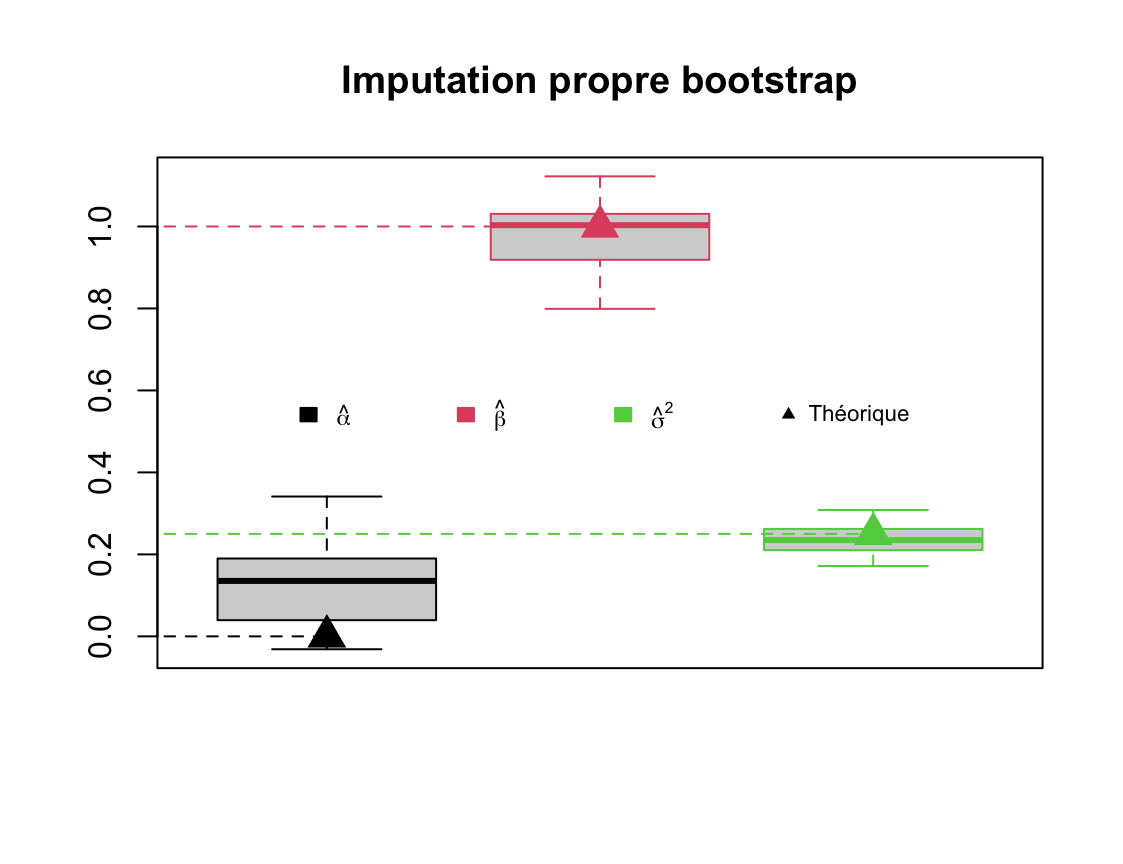
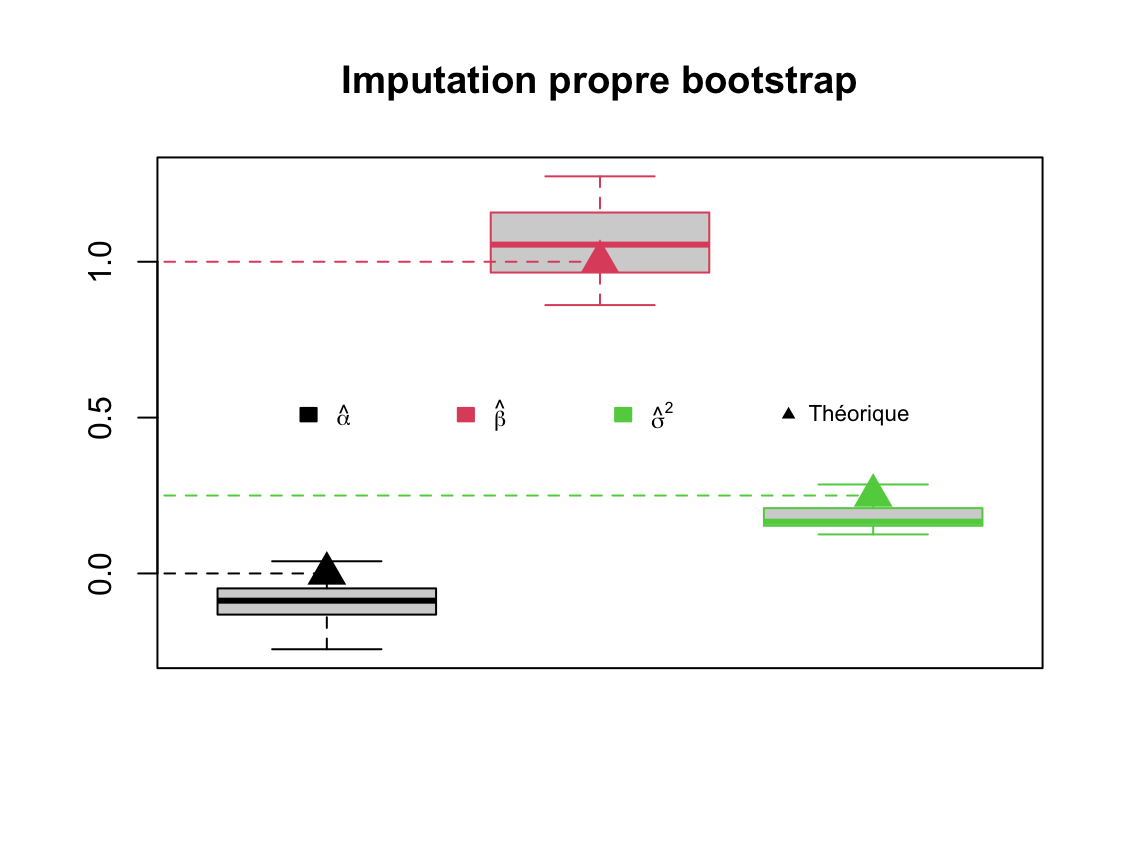
oo

diff --git a/static/uploads/M2_DS/M2_stats_de_la_SD_2024.html b/static/uploads/M2_DS/M2_stats_de_la_SD_2024.html
@@ -877,9 +877,9 @@ y = x + \epsilon
 <p>On répète un nombre <span class="math inline">\(M=\)</span> 20 d’imputations du jeu de données intitiales. En voici 3 versions.</p>
 
 <img data-src="M2_stats_de_la_SD_2024_files/figure-revealjs/unnamed-chunk-20-1.png" class="quarto-figure quarto-figure-center r-stretch" width="518"><p>La moyenne empirique des <span class="math inline">\(M=\)</span> 20 estimations pour chacun des 3 coefficients: <span class="math display">\[
-\hat{\alpha}_N\approx 0.07\pm 0.053, \
-\hat{\beta}_N\approx 0.978\pm 0.052,\
-\hat{\sigma}^2_N\approx 0.214
+\hat{\alpha}_N\approx -0.102\pm 0.045, \
+\hat{\beta}_N\approx 1.006\pm 0.055,\
+\hat{\sigma}^2_N\approx 0.158
 \]</span></p>
 </section>
 <section id="le-boxplot-toujours-aussi-utile" class="slide level2">
@@ -944,27 +944,27 @@ y = x + \epsilon
 <p>On obtient des estimations :</p>
 <ul>
 <li><p>Via bootstrap : <span class="math display">\[
-\hat{\alpha}_\text{Boot}\approx 0.121\pm 0.055, \
-\hat{\beta}_\text{Boot}\approx 0.978\pm 0.056, \
-\hat{\sigma}^2_\text{Boot}\approx 0.24
+\hat{\alpha}_\text{Boot}\approx -0.094\pm 0.048, \
+\hat{\beta}_\text{Boot}\approx 1.054\pm 0.06, \
+\hat{\sigma}^2_\text{Boot}\approx 0.18
 \]</span></p></li>
 <li><p>Via la postérieure/bayésienne : <span class="math display">\[
-\hat{\alpha}_\text{Bayes}\approx 0.074\pm 0.061, \
-\hat{\beta}_\text{Bayes}\approx 0.967\pm 0.061,\
-\hat{\sigma}^2_\text{Bayes}\approx 0.295
+\hat{\alpha}_\text{Bayes}\approx -0.106\pm 0.054, \
+\hat{\beta}_\text{Bayes}\approx 1.012\pm 0.066,\
+\hat{\sigma}^2_\text{Bayes}\approx 0.229
 \]</span></p></li>
 </ul>
 <p>Pour rappel, dans les cas impropres : <span class="math display">\[
 \begin{array}{lccc}
-\text{Moyenne}&amp;\hat{\alpha}_0\approx -0.009\pm 0.073 &amp;
-\hat{\beta}_0\approx 0.559\pm 0.073 &amp;
-\hat{\sigma}^2_0\approx 0.425\\
-\text{Régression linéaire}&amp;\hat{\alpha}_l\approx 0.069\pm 0.049 &amp;
-\hat{\beta}_l\approx 0.972\pm 0.048 &amp;
-\hat{\sigma}^2_l\approx 0.188\\
-\text{Régression stochastique}&amp;\hat{\alpha}_N\approx 0.07\pm 0.053 &amp;
-\hat{\beta}_N\approx 0.978\pm 0.052 &amp;
-\hat{\sigma}^2_N\approx 0.214
+\text{Moyenne}&amp;\hat{\alpha}_0\approx -0.1\pm 0.063 &amp;
+\hat{\beta}_0\approx 0.545\pm 0.077 &amp;
+\hat{\sigma}^2_0\approx 0.313\\
+\text{Régression linéaire}&amp;\hat{\alpha}_l\approx -0.099\pm 0.043 &amp;
+\hat{\beta}_l\approx 1.003\pm 0.052 &amp;
+\hat{\sigma}^2_l\approx 0.143\\
+\text{Régression stochastique}&amp;\hat{\alpha}_N\approx -0.102\pm 0.045 &amp;
+\hat{\beta}_N\approx 1.006\pm 0.055 &amp;
+\hat{\sigma}^2_N\approx 0.158
 \end{array}
 \]</span> </p>
 </section>
@@ -1241,16 +1241,16 @@ Q(\theta|\theta_k,X) = \mathbb{E}_{\theta_k}\left[\ell_c(\theta|X,Z)\right] = -\
 </section>
 <section id="un-petit-exemple-6" class="slide level2">
 <h2>Un petit exemple (6)</h2>
-<p>Application numérique avec <span class="math inline">\(\theta=30\)</span>, <span class="math inline">\(n_1=400\)</span>, <span class="math inline">\(n_2=250\)</span> et <span class="math inline">\(a=30.34\)</span> :</p>
+<p>Application numérique avec <span class="math inline">\(\theta=30\)</span>, <span class="math inline">\(n_1=400\)</span>, <span class="math inline">\(n_2=250\)</span> et <span class="math inline">\(a=30.29\)</span> :</p>
 
 <img data-src="M2_stats_de_la_SD_2024_files/figure-revealjs/unnamed-chunk-26-1.png" class="quarto-figure quarto-figure-center r-stretch" width="544"></section>
 <section id="algorithme-em-retour-à-notre-exemple" class="slide level2">
 <h2>Algorithme <strong>EM</strong>, retour à notre exemple</h2>
 
 <img data-src="M2_stats_de_la_SD_2024_files/figure-revealjs/emResult-1.png" class="quarto-figure quarto-figure-center r-stretch" width="388"><p>Les valeurs estimées sont alors <span class="math display">\[
-\hat{\alpha}_\text{EM}\approx -0.03\pm 0.041, \
-\hat{\beta}_\text{EM}\approx 0.946\pm 0.041,\
-\hat{\sigma}^2_\text{EM}\approx 0.152
+\hat{\alpha}_\text{EM}\approx 0.036\pm 0.041, \
+\hat{\beta}_\text{EM}\approx 0.994\pm 0.041,\
+\hat{\sigma}^2_\text{EM}\approx 0.133
 \]</span></p>
 </section></section>
 <section>
@@ -1355,7 +1355,7 @@ Q(\theta|\theta_k,X) = (x_2+x_3)\log(1-\theta) + (&lt;\!\!z_2\!\!&gt;_k+x_4)\log
 <section id="exemple-des-cellules-4" class="slide level2">
 <h2>Exemple des cellules (4)</h2>
 <p><span class="math display">\[
-(x_1,x_2,x_3,x_4) = (120,35,30,10)\quad \text{et} \quad \theta=0.3
+(x_1,x_2,x_3,x_4) = (115,35,40,15)\quad \text{et} \quad \theta=0.3
 \]</span></p>
 <p><br>
 </p>
@@ -1537,29 +1537,29 @@ p(Z,\theta|X) \approx q_Z(Z|X)q_\theta(\theta|X)=q(Z,\theta|X).
 <section id="au-total-1" class="slide level2">
 <h2>Au total</h2>
 <p><span class="math display">\[
-\hat{\alpha}_\text{EM}\approx -0.03\pm 0.041, \
-\hat{\beta}_\text{EM}\approx 0.946\pm 0.041,\
-\hat{\sigma}^2_\text{EM}\approx 0.152
+\hat{\alpha}_\text{EM}\approx 0.036\pm 0.041, \
+\hat{\beta}_\text{EM}\approx 0.994\pm 0.041,\
+\hat{\sigma}^2_\text{EM}\approx 0.133
 \]</span> <span class="math display">\[
-\hat{\alpha}_\text{Boot}\approx 0.121\pm 0.055, \
-\hat{\beta}_\text{Boot}\approx 0.978\pm 0.056, \
-\hat{\sigma}^2_\text{Boot}\approx 0.24
+\hat{\alpha}_\text{Boot}\approx -0.094\pm 0.048, \
+\hat{\beta}_\text{Boot}\approx 1.054\pm 0.06, \
+\hat{\sigma}^2_\text{Boot}\approx 0.18
 \]</span> <span class="math display">\[
-\hat{\alpha}_\text{Bayes}\approx 0.074\pm 0.061, \
-\hat{\beta}_\text{Bayes}\approx 0.967\pm 0.061,\
-\hat{\sigma}^2_\text{Bayes}\approx 0.295
+\hat{\alpha}_\text{Bayes}\approx -0.106\pm 0.054, \
+\hat{\beta}_\text{Bayes}\approx 1.012\pm 0.066,\
+\hat{\sigma}^2_\text{Bayes}\approx 0.229
 \]</span> <span class="math display">\[
-\hat{\alpha}_\text{0}\approx -0.009\pm 0.073, \
-\hat{\beta}_\text{0}\approx 0.559\pm 0.073, \
-\hat{\sigma}^2_\text{0}\approx 0.425
+\hat{\alpha}_\text{0}\approx -0.1\pm 0.063, \
+\hat{\beta}_\text{0}\approx 0.545\pm 0.077, \
+\hat{\sigma}^2_\text{0}\approx 0.313
 \]</span> <span class="math display">\[
-\hat{\alpha}_l\approx 0.069\pm 0.049, \
-\hat{\beta}_l\approx 0.972\pm 0.048, \
-\hat{\sigma}^2_l\approx 0.188
+\hat{\alpha}_l\approx -0.099\pm 0.043, \
+\hat{\beta}_l\approx 1.003\pm 0.052, \
+\hat{\sigma}^2_l\approx 0.143
 \]</span> <span class="math display">\[
-\hat{\alpha}_\text{N}\approx 0.07\pm 0.053, \
-\hat{\beta}_\text{N}\approx 0.978\pm 0.052, \
-\hat{\sigma}^2_\text{N}\approx 0.214
+\hat{\alpha}_\text{N}\approx -0.102\pm 0.045, \
+\hat{\beta}_\text{N}\approx 1.006\pm 0.055, \
+\hat{\sigma}^2_\text{N}\approx 0.158
 \]</span></p>
 </section>
 <section id="une-petite-acp-les-individus" class="slide level2">
